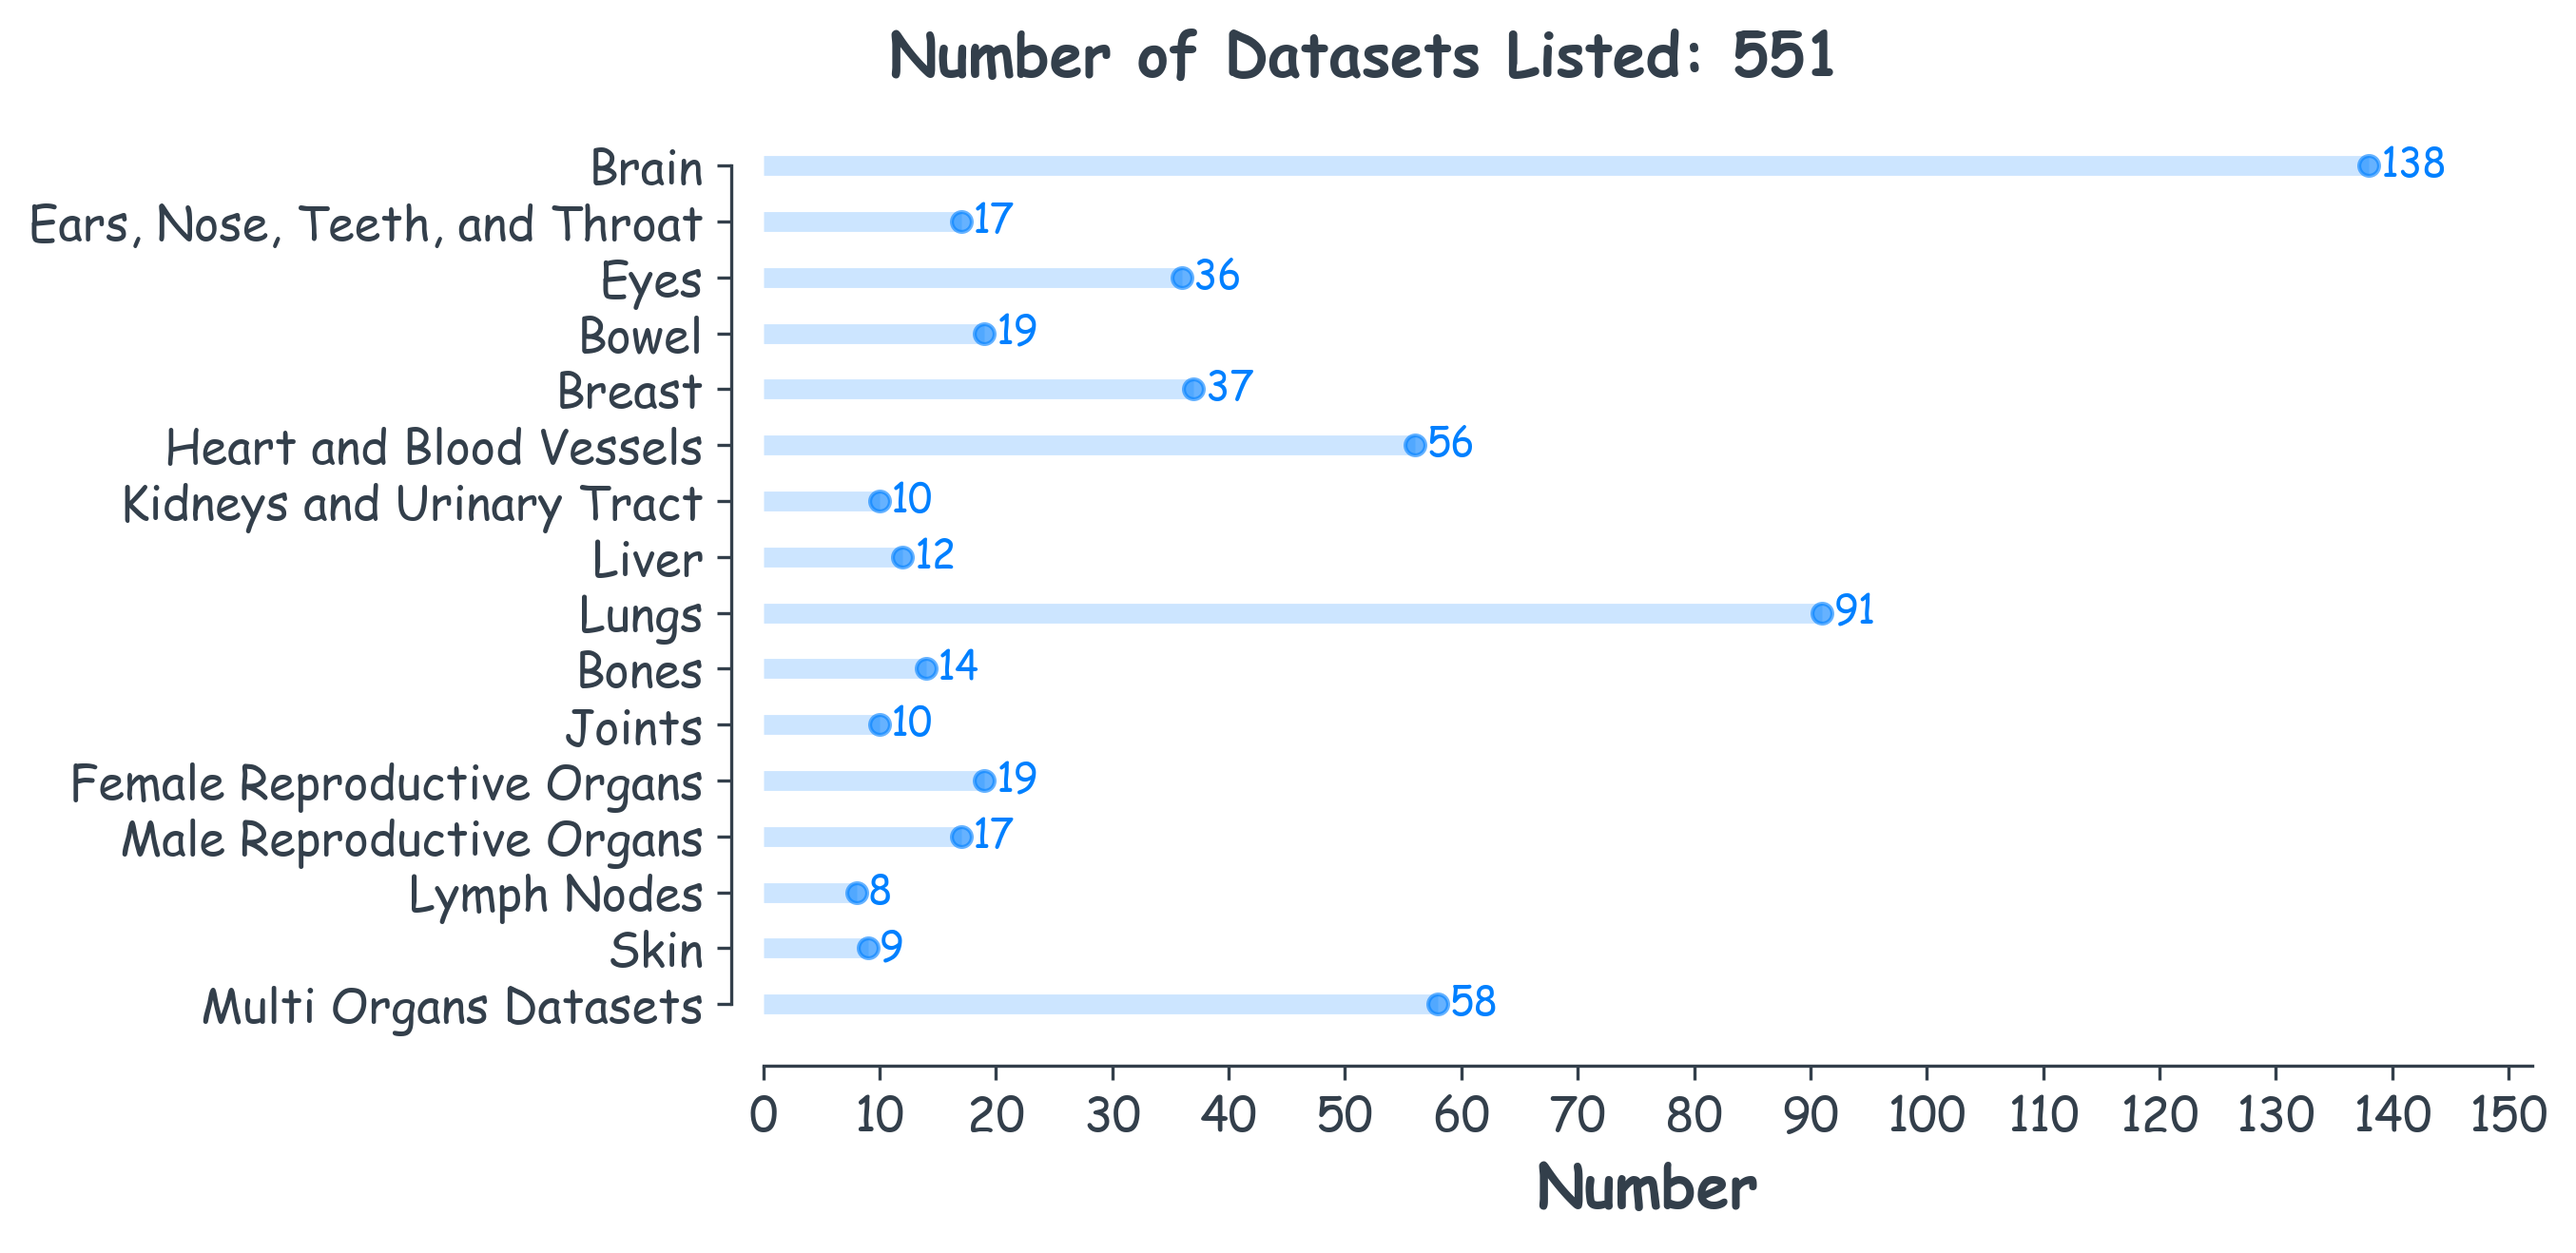
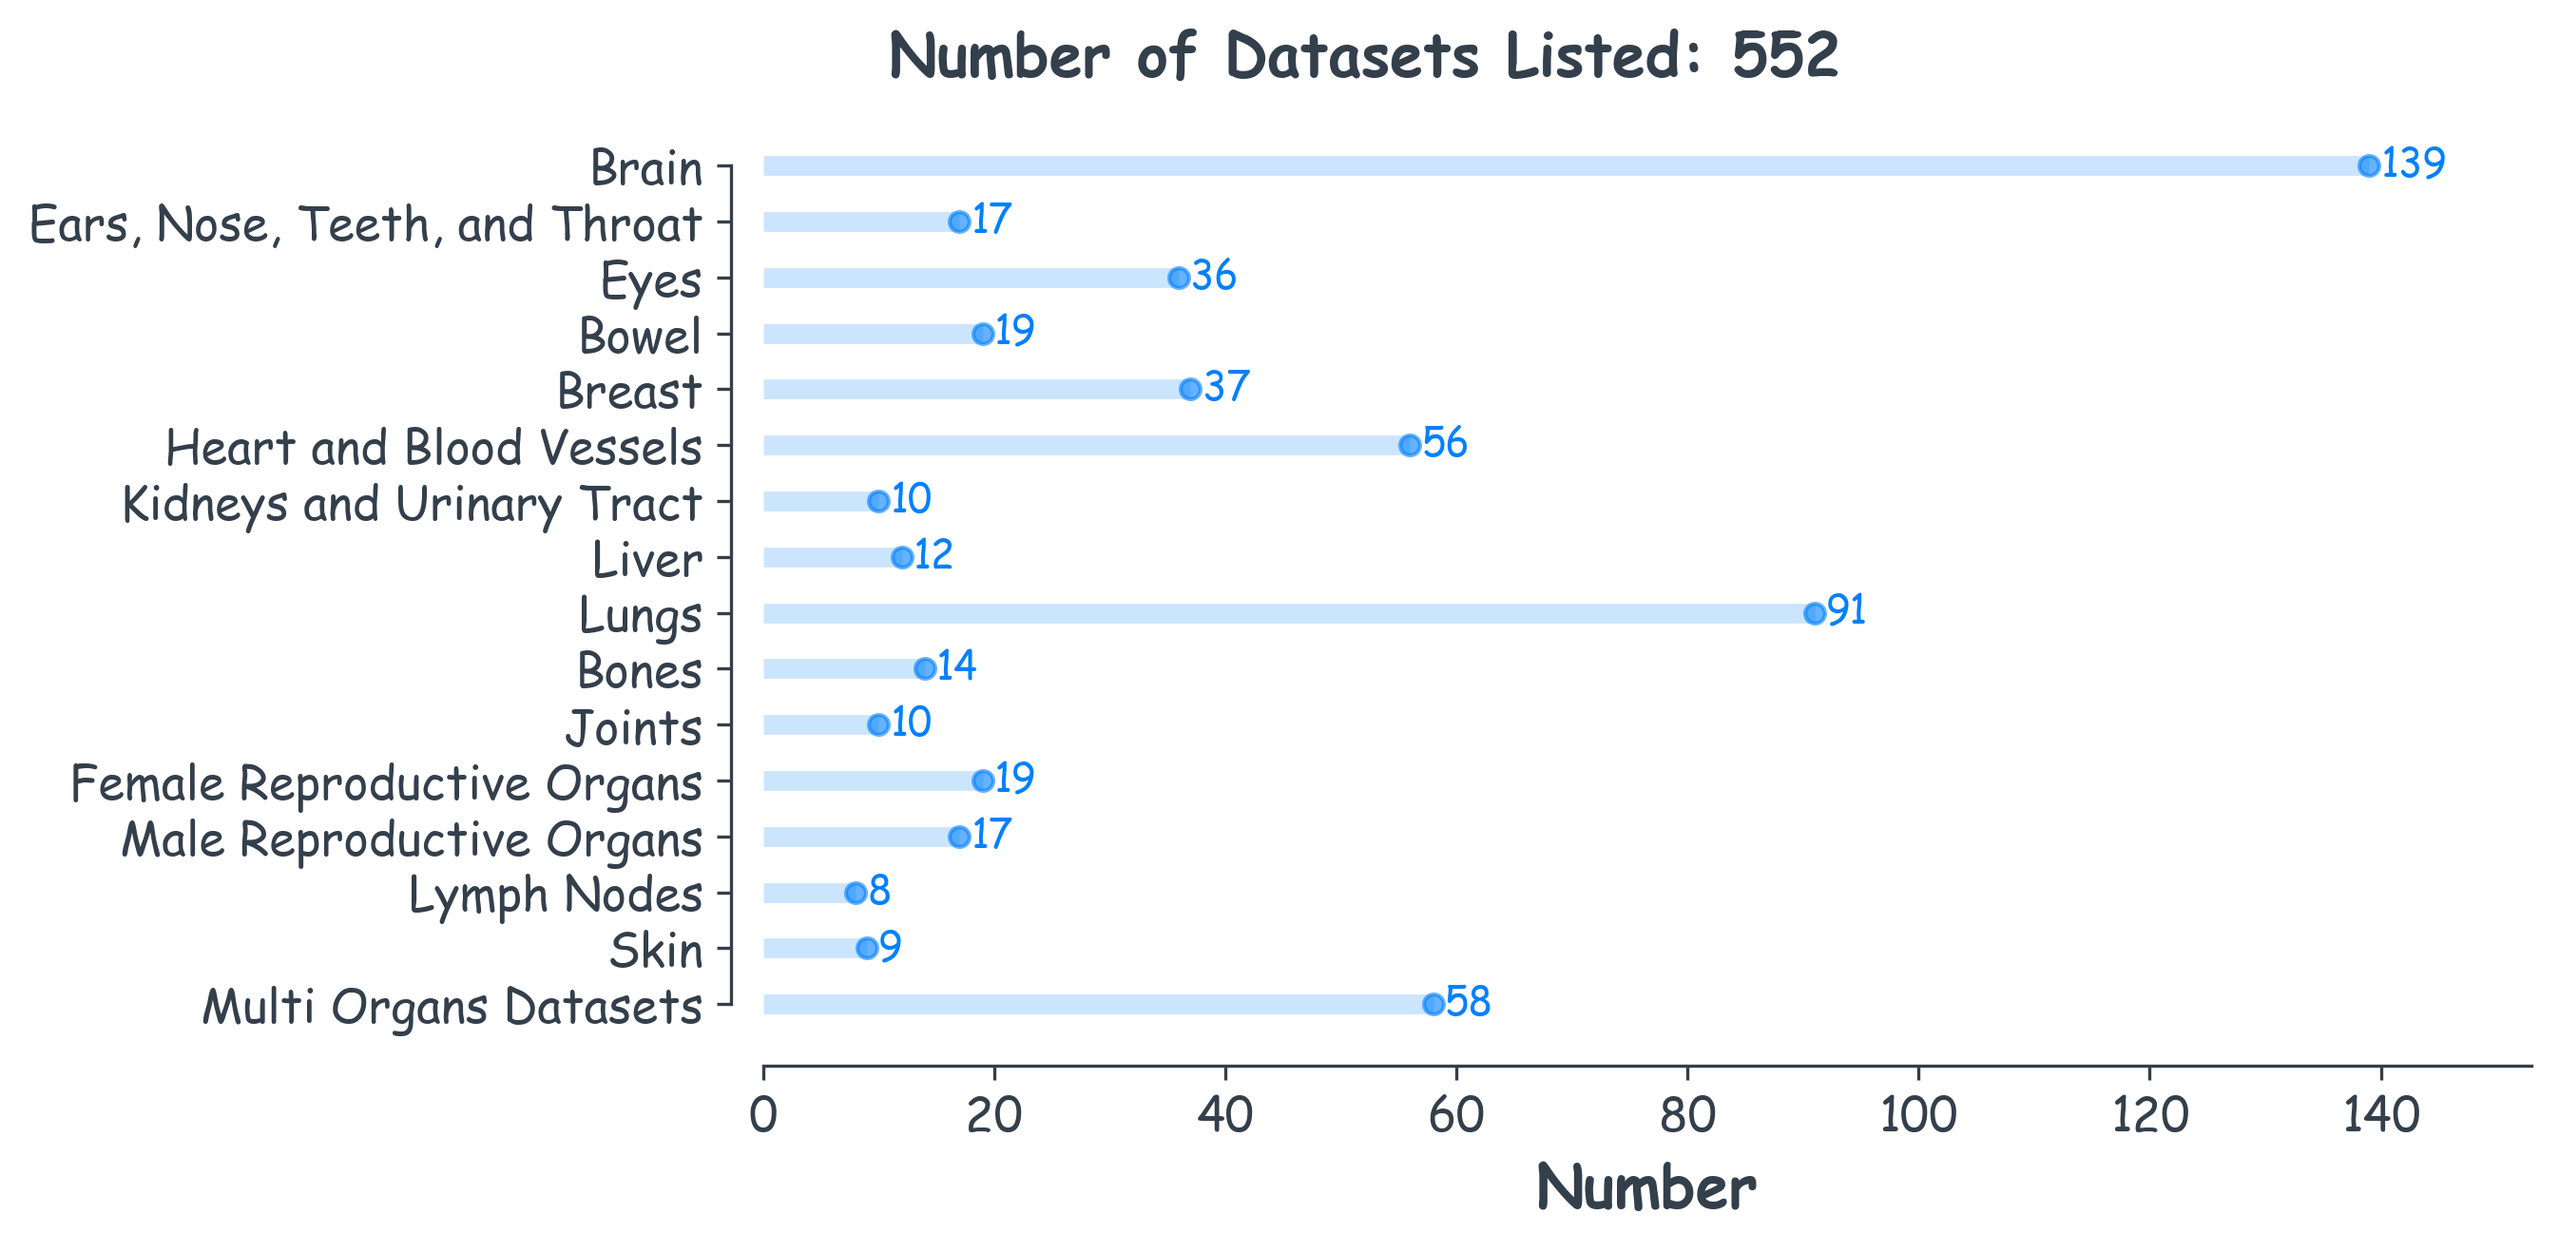
update image number and x axis range, N = 552

diff --git a/src/datasetNumberImage.py b/src/datasetNumberImage.py
@@ -29,7 +29,7 @@ plt.rcParams['text.color']='#333F4B'
 
 
 data = {
-       'Brain': 138,
+       'Brain': 139,
        'Ears, Nose, Teeth, and Throat': 17, 
        'Eyes': 36,
        'Bowel': 19,
@@ -71,7 +71,7 @@ ax.set_ylabel('')
 # set axis
 ax.tick_params(axis='both', which='major', labelsize=12)
 plt.yticks(range_y, df.index)
-plt.xticks(np.arange(0, np.ceil(df['number'].max()*1.1), step=10))
+plt.xticks(np.arange(0, np.ceil(df['number'].max()*1.05), step=20))
 ax.set_xlim(0,np.ceil(df['number'].max()*1.1))
 
 # add an horizonal label for the y axis 
